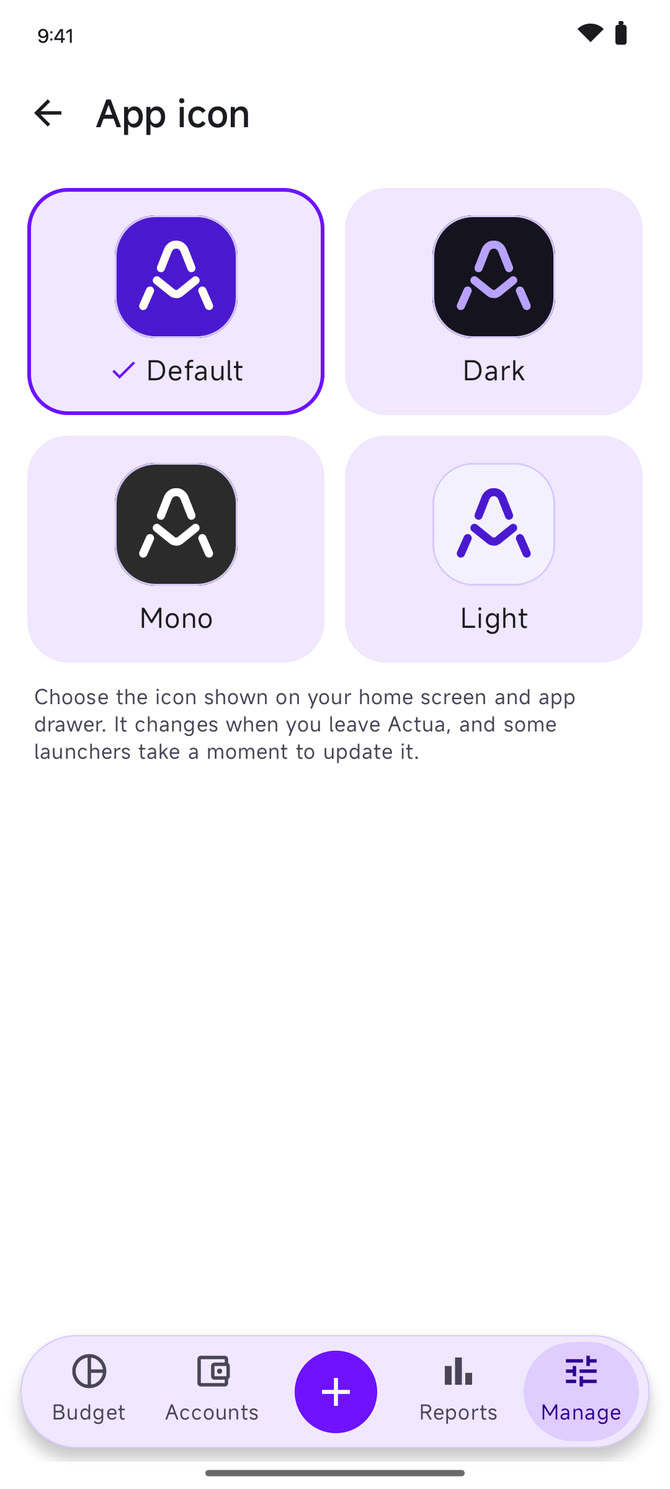
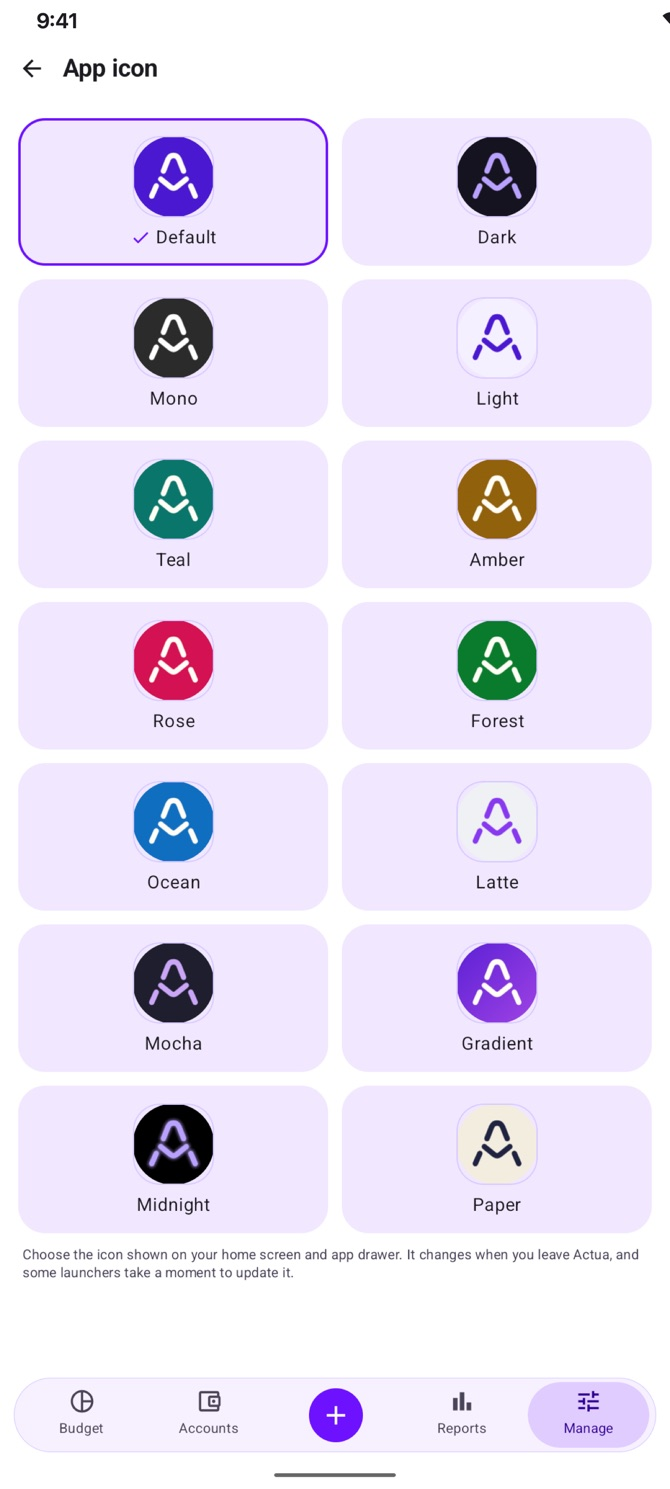
Show the new Supporter extras and receipt scan screenshots
Add the custom accent, 14 app icon, widget style pack and receipt scan screenshots, update the Supporter extras copy and the language list, and drop the retired full APK mention.

diff --git a/index.html b/index.html
@@ -121,9 +121,9 @@
         <ul>
           <li>Standalone on-device budgets with zero server setup</li>
           <li>Client-side encrypted Google Drive and WebDAV backup & restore</li>
-          <li>Scan a receipt to prefill a new transaction (Google Play and full APK)</li>
+          <li>Scan a receipt to prefill a new transaction, or attach it to an existing one</li>
           <li>Optional app lock with biometrics or your device PIN</li>
-          <li>Available in English, Brazilian Portuguese and Spanish</li>
+          <li>Available in English, French, German, Italian, Japanese, Russian, Simplified Chinese, Brazilian Portuguese and Spanish</li>
           <li>Customizable bottom tabs, a collapsible home dashboard, and home-screen widgets</li>
           <li>Credit cards with billing cycles, and loans with a payoff planner</li>
           <li>Collapsible account groups you can create, reorder, and assign</li>
@@ -148,6 +148,8 @@
         <a href="images/screenshots/light/accounts.jpg"><picture><source media="(prefers-color-scheme: dark)" srcset="images/screenshots/dark/accounts.jpg"><img src="images/screenshots/light/accounts.jpg" alt="Actua accounts overview with favorites and group totals" width="670" height="1489" loading="lazy"></picture><span>Accounts</span></a>
         <a href="images/screenshots/light/transactions.jpg"><picture><source media="(prefers-color-scheme: dark)" srcset="images/screenshots/dark/transactions.jpg"><img src="images/screenshots/light/transactions.jpg" alt="Actua transaction list with splits and reconciled transactions" width="670" height="1489" loading="lazy"></picture><span>Transactions</span></a>
         <a href="images/screenshots/light/add-transaction.jpg"><picture><source media="(prefers-color-scheme: dark)" srcset="images/screenshots/dark/add-transaction.jpg"><img src="images/screenshots/light/add-transaction.jpg" alt="Actua add transaction screen" width="670" height="1489" loading="lazy"></picture><span>Add transaction</span></a>
+        <a href="images/screenshots/light/receipt-dialog.jpg"><picture><source media="(prefers-color-scheme: dark)" srcset="images/screenshots/dark/receipt-dialog.jpg"><img src="images/screenshots/light/receipt-dialog.jpg" alt="Actua scanning a receipt on an existing transaction, with the choice to attach the photo only or replace the details" width="670" height="1489" loading="lazy"></picture><span>Receipt scan</span></a>
+        <a href="images/screenshots/light/receipt-split.jpg"><picture><source media="(prefers-color-scheme: dark)" srcset="images/screenshots/dark/receipt-split.jpg"><img src="images/screenshots/light/receipt-split.jpg" alt="Actua offering to split a scanned receipt's tax and items into separate lines" width="670" height="1489" loading="lazy"></picture><span>Receipt splits</span></a>
         <a href="images/screenshots/light/reports.jpg"><picture><source media="(prefers-color-scheme: dark)" srcset="images/screenshots/dark/reports.jpg"><img src="images/screenshots/light/reports.jpg" alt="Actua spending-by-category report" width="670" height="1489" loading="lazy"></picture><span>Reports</span></a>
         <a href="images/screenshots/light/net-worth.jpg"><picture><source media="(prefers-color-scheme: dark)" srcset="images/screenshots/dark/net-worth.jpg"><img src="images/screenshots/light/net-worth.jpg" alt="Actua net worth and cash flow reports" width="670" height="1489" loading="lazy"></picture><span>Net worth & cash flow</span></a>
         <a href="images/screenshots/light/credit-card.jpg"><picture><source media="(prefers-color-scheme: dark)" srcset="images/screenshots/dark/credit-card.jpg"><img src="images/screenshots/light/credit-card.jpg" alt="Actua credit card with billing cycle and statement balance" width="670" height="1489" loading="lazy"></picture><span>Credit cards</span></a>
@@ -166,16 +168,17 @@
         <p>Budgeting always stays free. Supporters of the Google Play version unlock cosmetic extras under Settings &rarr; Supporter extras.</p>
       </div>
       <div class="screenshot-grid perk-shots">
-        <a href="images/screenshots/light/accent-colors.jpg"><picture><source media="(prefers-color-scheme: dark)" srcset="images/screenshots/dark/accent-colors.jpg"><img src="images/screenshots/light/accent-colors.jpg" alt="Actua accent color picker with Violet, Teal, Amber, Rose, Forest, Ocean and Mono" width="670" height="1489" loading="lazy"></picture><span>Accent colors</span></a>
+        <a href="images/screenshots/light/accent-colors.jpg"><picture><source media="(prefers-color-scheme: dark)" srcset="images/screenshots/dark/accent-colors.jpg"><img src="images/screenshots/light/accent-colors.jpg" alt="Actua accent color picker with Violet, Teal, Amber, Rose, Forest, Ocean, Mono and Custom" width="670" height="1489" loading="lazy"></picture><span>Accent colors</span></a>
+        <a href="images/screenshots/light/custom-accent.jpg"><picture><source media="(prefers-color-scheme: dark)" srcset="images/screenshots/dark/custom-accent.jpg"><img src="images/screenshots/light/custom-accent.jpg" alt="Actua custom accent color picker with hex, hue, saturation and brightness controls" width="670" height="1489" loading="lazy"></picture><span>Custom accent</span></a>
         <a href="images/screenshots/light/catppuccin.jpg"><picture><source media="(prefers-color-scheme: dark)" srcset="images/screenshots/dark/catppuccin.jpg"><img src="images/screenshots/light/catppuccin.jpg" alt="Actua Catppuccin theme picker with the Latte, Frappé, Macchiato and Mocha flavors and 14 accents" width="670" height="1489" loading="lazy"></picture><span>Catppuccin themes</span></a>
-        <a href="images/screenshots/light/app-icon.jpg"><picture><source media="(prefers-color-scheme: dark)" srcset="images/screenshots/dark/app-icon.jpg"><img src="images/screenshots/light/app-icon.jpg" alt="Actua app icon picker with Default, Dark, Mono and Light" width="670" height="1489" loading="lazy"></picture><span>App icons</span></a>
-        <a href="images/screenshots/light/widget-styles.jpg"><picture><source media="(prefers-color-scheme: dark)" srcset="images/screenshots/dark/widget-styles.jpg"><img src="images/screenshots/light/widget-styles.jpg" alt="Actua widget style picker with Default, Translucent, Solid dark, Solid light and Accent-tinted" width="670" height="1489" loading="lazy"></picture><span>Widget styles</span></a>
+        <a href="images/screenshots/light/app-icon.jpg"><picture><source media="(prefers-color-scheme: dark)" srcset="images/screenshots/dark/app-icon.jpg"><img src="images/screenshots/light/app-icon.jpg" alt="Actua app icon picker with 14 icons" width="670" height="1489" loading="lazy"></picture><span>App icons</span></a>
+        <a href="images/screenshots/light/widget-styles.jpg"><picture><source media="(prefers-color-scheme: dark)" srcset="images/screenshots/dark/widget-styles.jpg"><img src="images/screenshots/light/widget-styles.jpg" alt="Actua widget style picker with eight styles, plus corner radius and background opacity" width="670" height="1489" loading="lazy"></picture><span>Widget styles</span></a>
       </div>
       <div class="feature-grid">
-        <article class="feature"><div class="icon"><svg viewBox="0 0 24 24" width="22" height="22" fill="none" stroke="currentColor" stroke-width="2" stroke-linecap="round" stroke-linejoin="round" aria-hidden="true"><rect x="4" y="4" width="16" height="16" rx="5"/><path d="m9 15 3-6 3 6"/></svg></div><h3>App icons</h3><p>Dark, Mono and Light join the default icon on your home screen and app drawer.</p></article>
-        <article class="feature"><div class="icon"><svg viewBox="0 0 24 24" width="22" height="22" fill="none" stroke="currentColor" stroke-width="2" stroke-linecap="round" stroke-linejoin="round" aria-hidden="true"><circle cx="12" cy="12" r="9"/><circle cx="8" cy="10.5" r="1"/><circle cx="12" cy="7.5" r="1"/><circle cx="16" cy="10.5" r="1"/></svg></div><h3>Accent colors</h3><p>Teal, Amber, Rose, Forest, Ocean and Mono recolor every screen to match. Violet and Material You stay free for everyone.</p></article>
+        <article class="feature"><div class="icon"><svg viewBox="0 0 24 24" width="22" height="22" fill="none" stroke="currentColor" stroke-width="2" stroke-linecap="round" stroke-linejoin="round" aria-hidden="true"><rect x="4" y="4" width="16" height="16" rx="5"/><path d="m9 15 3-6 3 6"/></svg></div><h3>App icons</h3><p>Thirteen alternate icons join the default one on your home screen and app drawer.</p></article>
+        <article class="feature"><div class="icon"><svg viewBox="0 0 24 24" width="22" height="22" fill="none" stroke="currentColor" stroke-width="2" stroke-linecap="round" stroke-linejoin="round" aria-hidden="true"><circle cx="12" cy="12" r="9"/><circle cx="8" cy="10.5" r="1"/><circle cx="12" cy="7.5" r="1"/><circle cx="16" cy="10.5" r="1"/></svg></div><h3>Accent colors</h3><p>Teal, Amber, Rose, Forest, Ocean and Mono recolor every screen to match, or pick any color of your own. Violet and Material You stay free for everyone.</p></article>
         <article class="feature"><div class="icon"><svg viewBox="0 0 24 24" width="22" height="22" fill="none" stroke="currentColor" stroke-width="2" stroke-linecap="round" stroke-linejoin="round" aria-hidden="true"><circle cx="12" cy="12" r="9"/><circle cx="8" cy="10.5" r="1"/><circle cx="12" cy="7.5" r="1"/><circle cx="16" cy="10.5" r="1"/></svg></div><h3>Catppuccin themes</h3><p>Latte for light mode and Frappé, Macchiato or Mocha for dark, with your pick of 14 accents. Based on the Catppuccin palette.</p></article>
-        <article class="feature"><div class="icon"><svg viewBox="0 0 24 24" width="22" height="22" fill="none" stroke="currentColor" stroke-width="2" stroke-linecap="round" stroke-linejoin="round" aria-hidden="true"><rect x="3" y="3" width="8" height="8" rx="2"/><rect x="13" y="3" width="8" height="8" rx="2"/><rect x="3" y="13" width="18" height="8" rx="2"/></svg></div><h3>Widget styles</h3><p>Restyle every home-screen widget as Translucent, Solid dark, Solid light or Accent-tinted.</p></article>
+        <article class="feature"><div class="icon"><svg viewBox="0 0 24 24" width="22" height="22" fill="none" stroke="currentColor" stroke-width="2" stroke-linecap="round" stroke-linejoin="round" aria-hidden="true"><rect x="3" y="3" width="8" height="8" rx="2"/><rect x="13" y="3" width="8" height="8" rx="2"/><rect x="3" y="13" width="18" height="8" rx="2"/></svg></div><h3>Widget styles</h3><p>Restyle home-screen widgets in eight looks, from Translucent and Solid to Gradient accent, Outline and Midnight, and set the corner radius and background opacity for all widgets or one at a time.</p></article>
         <article class="feature"><div class="icon"><svg viewBox="0 0 24 24" width="22" height="22" fill="none" stroke="currentColor" stroke-width="2" stroke-linecap="round" stroke-linejoin="round" aria-hidden="true"><path d="M12 3v4M12 17v4M3 12h4M17 12h4M6 6l2.5 2.5M15.5 15.5 18 18M18 6l-2.5 2.5M8.5 15.5 6 18"/></svg></div><h3>Celebrations</h3><p>A short confetti burst when Ready to budget reaches zero or you finish a reconciliation.</p></article>
         <article class="feature"><div class="icon"><svg viewBox="0 0 24 24" width="22" height="22" fill="none" stroke="currentColor" stroke-width="2" stroke-linecap="round" stroke-linejoin="round" aria-hidden="true"><path d="M12 3v4M12 17v4M3 12h4M17 12h4M6 6l2.5 2.5M15.5 15.5 18 18M18 6l-2.5 2.5M8.5 15.5 6 18"/></svg></div><h3>A friendly greeting</h3><p>A hello with a few counts, like transactions to categorize and bills due this week, once a day on your start page, on Home and on Support Actua. Never any amounts.</p></article>
         <article class="feature"><div class="icon"><svg viewBox="0 0 24 24" width="22" height="22" fill="none" stroke="currentColor" stroke-width="2" stroke-linecap="round" stroke-linejoin="round" aria-hidden="true"><path d="M20.8 4.6a5.5 5.5 0 0 0-7.8 0L12 5.7l-1-1.1a5.5 5.5 0 0 0-7.8 7.8l1 1L12 21l7.8-7.6 1-1a5.5 5.5 0 0 0 0-7.8z"/></svg></div><h3>Supporter badge</h3><p>A permanent badge, once or monthly. Pay what you like: every price gives the same badge.</p></article>

diff --git a/style.css b/style.css
@@ -41,8 +41,8 @@ footer{border-top:1px solid var(--outline);max-width:1180px;margin:auto;padding:
 .video-frame p{margin:0;padding:24px;color:#fff}
 .video-frame a{text-decoration:underline}
 @media(max-width:560px){.video-section{padding-top:50px}.video-frame{border-radius:18px}}
-.perk-shots{grid-template-columns:repeat(4,1fr);max-width:1080px;margin:0 auto 44px}
+.perk-shots{grid-template-columns:repeat(5,1fr);max-width:1180px;margin:0 auto 44px}
 .perk-actions{justify-content:center;margin-top:36px}
 .perk-actions .button{width:auto;padding-left:26px;padding-right:26px}
-@media(max-width:850px){.perk-shots{grid-template-columns:1fr 1fr;max-width:560px}}
+@media(max-width:850px){.perk-shots{grid-template-columns:1fr 1fr;max-width:560px}.perk-shots a:last-child:nth-child(odd){grid-column:1/-1;width:50%;justify-self:center}}
 @media(max-width:560px){.perk-shots{gap:10px}}
